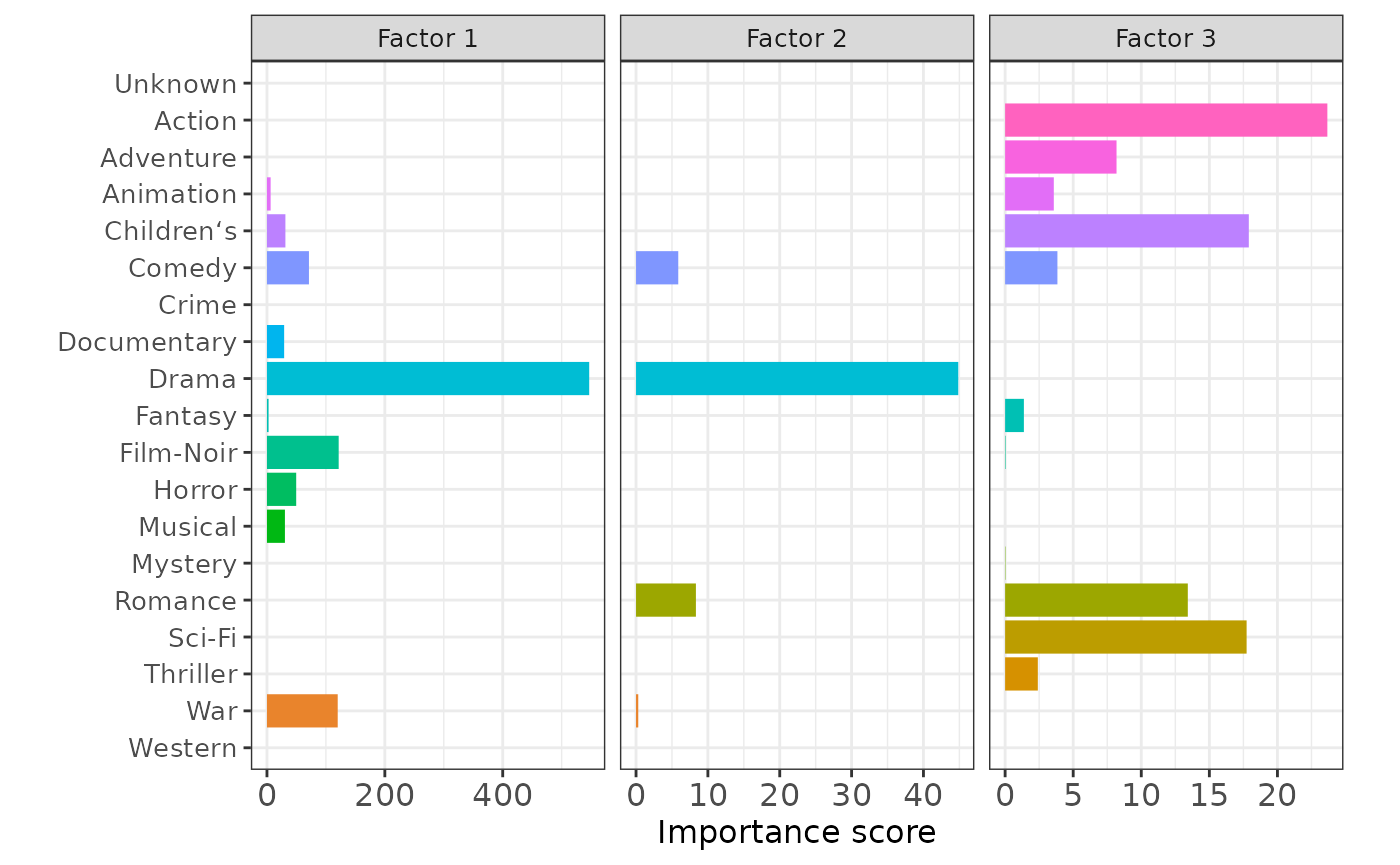
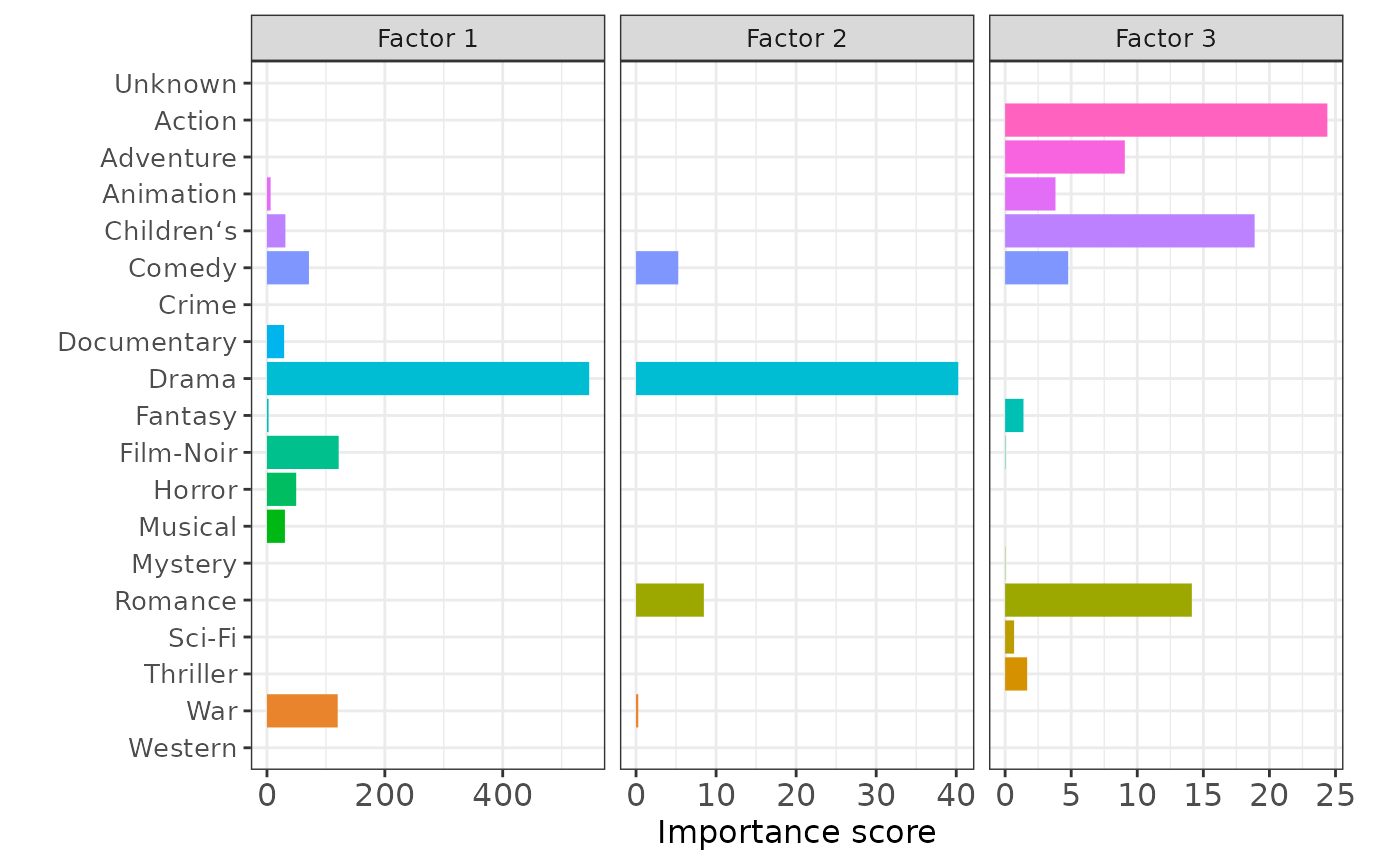
Deploying to gh-pages from @ YangLabHKUST/mfair@0e81a42e88e15f380c4b3bf85380ac52168c3863 🚀

diff --git a/articles/ml100k.html b/articles/ml100k.html
@@ -87,6 +87,7 @@ HKUST</h4>
 <span><span class="co"># install.packages("devtools")</span></span>
 <span><span class="co"># devtools::install_github("YangLabHKUST/mfair")</span></span>
 <span><span class="kw"><a href="https://rdrr.io/r/base/library.html" class="external-link">library</a></span><span class="op">(</span><span class="va"><a href="https://yanglabhkust.github.io/mfair/">mfair</a></span><span class="op">)</span></span>
+<span><span class="kw"><a href="https://rdrr.io/r/base/library.html" class="external-link">library</a></span><span class="op">(</span><span class="va"><a href="https://Matrix.R-forge.R-project.org" class="external-link">Matrix</a></span><span class="op">)</span></span>
 <span><span class="kw"><a href="https://rdrr.io/r/base/library.html" class="external-link">library</a></span><span class="op">(</span><span class="va"><a href="https://github.com/hadley/reshape" class="external-link">reshape2</a></span><span class="op">)</span></span>
 <span><span class="kw"><a href="https://rdrr.io/r/base/library.html" class="external-link">library</a></span><span class="op">(</span><span class="va"><a href="https://ggplot2.tidyverse.org" class="external-link">ggplot2</a></span><span class="op">)</span></span>
 <span><span class="kw"><a href="https://rdrr.io/r/base/library.html" class="external-link">library</a></span><span class="op">(</span><span class="va"><a href="https://scales.r-lib.org" class="external-link">scales</a></span><span class="op">)</span></span>
@@ -111,6 +112,7 @@ proceed to fit the MFAI model with top three factors.</p>
 <span><span class="va">Y</span> <span class="op">&lt;-</span> <span class="fu"><a href="https://rdrr.io/r/base/t.html" class="external-link">t</a></span><span class="op">(</span><span class="va">ml100k</span><span class="op">$</span><span class="va">rating</span><span class="op">)</span></span>
 <span><span class="va">X</span> <span class="op">&lt;-</span> <span class="va">ml100k</span><span class="op">$</span><span class="va">genre</span></span>
 <span><span class="va">mfairObject</span> <span class="op">&lt;-</span> <span class="fu"><a href="../reference/createMFAIR.html">createMFAIR</a></span><span class="op">(</span><span class="va">Y</span>, <span class="va">X</span>, K_max <span class="op">=</span> <span class="fl">3</span><span class="op">)</span></span>
+<span><span class="co">#&gt; The main data matrix Y has been stored in the sparse mode!</span></span>
 <span><span class="co">#&gt; The main data matrix Y is partially observed!</span></span>
 <span><span class="co">#&gt; The main data matrix Y has been centered with mean = 3.52986!</span></span>
 <span></span>
@@ -122,17 +124,17 @@ proceed to fit the MFAI model with top three factors.</p>
 <span><span class="co">#&gt; Set K_max = 3!</span></span>
 <span><span class="co">#&gt; Initialize the parameters of factor 1......</span></span>
 <span><span class="co">#&gt; After 2 iterations Stage 1 ends!</span></span>
-<span><span class="co">#&gt; After 59 iterations Stage 2 ends!</span></span>
+<span><span class="co">#&gt; After 53 iterations Stage 2 ends!</span></span>
 <span><span class="co">#&gt; Factor 1 retained!</span></span>
 <span><span class="co">#&gt; Save the initializaiton information......</span></span>
 <span><span class="co">#&gt; Initialize the parameters of factor 2......</span></span>
 <span><span class="co">#&gt; After 2 iterations Stage 1 ends!</span></span>
-<span><span class="co">#&gt; After 77 iterations Stage 2 ends!</span></span>
+<span><span class="co">#&gt; After 54 iterations Stage 2 ends!</span></span>
 <span><span class="co">#&gt; Factor 2 retained!</span></span>
 <span><span class="co">#&gt; Save the initializaiton information......</span></span>
 <span><span class="co">#&gt; Initialize the parameters of factor 3......</span></span>
 <span><span class="co">#&gt; After 2 iterations Stage 1 ends!</span></span>
-<span><span class="co">#&gt; After 29 iterations Stage 2 ends!</span></span>
+<span><span class="co">#&gt; After 28 iterations Stage 2 ends!</span></span>
 <span><span class="co">#&gt; Factor 3 retained!</span></span>
 <span><span class="co">#&gt; Save the initializaiton information......</span></span></code></pre></div>
 </div>
@@ -203,6 +205,7 @@ permuting the entries of the corresponding column in the real genre data
 <div class="sourceCode" id="cb6"><pre class="downlit sourceCode r">
 <code class="sourceCode R"><span><span class="co"># Create MFAIR object and use the same initialization</span></span>
 <span><span class="va">mfairObject_pmt</span> <span class="op">&lt;-</span> <span class="fu"><a href="../reference/createMFAIR.html">createMFAIR</a></span><span class="op">(</span><span class="va">Y</span>, <span class="va">X_pmt</span>, K_max <span class="op">=</span> <span class="fl">3</span><span class="op">)</span></span>
+<span><span class="co">#&gt; The main data matrix Y has been stored in the sparse mode!</span></span>
 <span><span class="co">#&gt; The main data matrix Y is partially observed!</span></span>
 <span><span class="co">#&gt; The main data matrix Y has been centered with mean = 3.52986!</span></span>
 <span><span class="va">mfairObject_pmt</span><span class="op">@</span><span class="va">initialization</span> <span class="op">&lt;-</span> <span class="va">mfairObject</span><span class="op">@</span><span class="va">initialization</span></span>
@@ -214,15 +217,15 @@ permuting the entries of the corresponding column in the real genre data
 <span><span class="co">#&gt; Set K_max = 3!</span></span>
 <span><span class="co">#&gt; Use the user-specific initialization for factor 1......</span></span>
 <span><span class="co">#&gt; After 2 iterations Stage 1 ends!</span></span>
-<span><span class="co">#&gt; After 58 iterations Stage 2 ends!</span></span>
+<span><span class="co">#&gt; After 52 iterations Stage 2 ends!</span></span>
 <span><span class="co">#&gt; Factor 1 retained!</span></span>
 <span><span class="co">#&gt; Use the user-specific initialization for factor 2......</span></span>
 <span><span class="co">#&gt; After 2 iterations Stage 1 ends!</span></span>
-<span><span class="co">#&gt; After 77 iterations Stage 2 ends!</span></span>
+<span><span class="co">#&gt; After 55 iterations Stage 2 ends!</span></span>
 <span><span class="co">#&gt; Factor 2 retained!</span></span>
 <span><span class="co">#&gt; Use the user-specific initialization for factor 3......</span></span>
 <span><span class="co">#&gt; After 2 iterations Stage 1 ends!</span></span>
-<span><span class="co">#&gt; After 28 iterations Stage 2 ends!</span></span>
+<span><span class="co">#&gt; After 27 iterations Stage 2 ends!</span></span>
 <span><span class="co">#&gt; Factor 3 retained!</span></span></code></pre></div>
 <div class="sourceCode" id="cb7"><pre class="downlit sourceCode r">
 <code class="sourceCode R"><span><span class="co"># Get importance score</span></span>
@@ -270,6 +273,7 @@ MFAI model.</p>
 <span></span>
 <span><span class="co"># Create MFAIR object and use the same initialization</span></span>
 <span><span class="va">mfairObject_both</span> <span class="op">&lt;-</span> <span class="fu"><a href="../reference/createMFAIR.html">createMFAIR</a></span><span class="op">(</span><span class="va">Y</span>, <span class="va">X_both</span>, K_max <span class="op">=</span> <span class="fl">3</span><span class="op">)</span></span>
+<span><span class="co">#&gt; The main data matrix Y has been stored in the sparse mode!</span></span>
 <span><span class="co">#&gt; The main data matrix Y is partially observed!</span></span>
 <span><span class="co">#&gt; The main data matrix Y has been centered with mean = 3.52986!</span></span>
 <span><span class="va">mfairObject_both</span><span class="op">@</span><span class="va">initialization</span> <span class="op">&lt;-</span> <span class="va">mfairObject</span><span class="op">@</span><span class="va">initialization</span></span>
@@ -281,15 +285,15 @@ MFAI model.</p>
 <span><span class="co">#&gt; Set K_max = 3!</span></span>
 <span><span class="co">#&gt; Use the user-specific initialization for factor 1......</span></span>
 <span><span class="co">#&gt; After 2 iterations Stage 1 ends!</span></span>
-<span><span class="co">#&gt; After 59 iterations Stage 2 ends!</span></span>
+<span><span class="co">#&gt; After 53 iterations Stage 2 ends!</span></span>
 <span><span class="co">#&gt; Factor 1 retained!</span></span>
 <span><span class="co">#&gt; Use the user-specific initialization for factor 2......</span></span>
 <span><span class="co">#&gt; After 2 iterations Stage 1 ends!</span></span>
-<span><span class="co">#&gt; After 77 iterations Stage 2 ends!</span></span>
+<span><span class="co">#&gt; After 54 iterations Stage 2 ends!</span></span>
 <span><span class="co">#&gt; Factor 2 retained!</span></span>
 <span><span class="co">#&gt; Use the user-specific initialization for factor 3......</span></span>
 <span><span class="co">#&gt; After 2 iterations Stage 1 ends!</span></span>
-<span><span class="co">#&gt; After 29 iterations Stage 2 ends!</span></span>
+<span><span class="co">#&gt; After 28 iterations Stage 2 ends!</span></span>
 <span><span class="co">#&gt; Factor 3 retained!</span></span></code></pre></div>
 <div class="sourceCode" id="cb9"><pre class="downlit sourceCode r">
 <code class="sourceCode R"><span><span class="co"># Get importance score</span></span>

diff --git a/articles/neocortex.html b/articles/neocortex.html
@@ -270,7 +270,7 @@ gene sets.</p>
 <span></span>
 <span><span class="co"># Relative weight</span></span>
 <span><span class="va">gene_factors</span> <span class="op">&lt;-</span> <span class="fu"><a href="https://rdrr.io/r/base/MathFun.html" class="external-link">abs</a></span><span class="op">(</span><span class="va">gene_factors</span><span class="op">)</span></span>
-<span><span class="va">gene_factors</span> <span class="op">&lt;-</span> <span class="va">gene_factors</span> <span class="op">/</span> <span class="fu"><a href="https://rdrr.io/r/base/colSums.html" class="external-link">rowSums</a></span><span class="op">(</span><span class="va">gene_factors</span><span class="op">)</span></span>
+<span><span class="va">gene_factors</span> <span class="op">&lt;-</span> <span class="va">gene_factors</span> <span class="op">/</span> <span class="fu"><a href="https://rdrr.io/pkg/Matrix/man/colSums.html" class="external-link">rowSums</a></span><span class="op">(</span><span class="va">gene_factors</span><span class="op">)</span></span>
 <span></span>
 <span><span class="va">M</span> <span class="op">&lt;-</span> <span class="fu"><a href="https://rdrr.io/r/base/nrow.html" class="external-link">nrow</a></span><span class="op">(</span><span class="va">gene_factors</span><span class="op">)</span><span class="op">[</span><span class="fl">1</span><span class="op">]</span> <span class="co"># Total number of genes M = 2,000</span></span>
 <span><span class="va">ntop</span> <span class="op">&lt;-</span> <span class="va">M</span> <span class="op">*</span> <span class="fl">0.15</span> <span class="co"># We use the top 300 weighted genes in each factor to form the gene sets</span></span>
